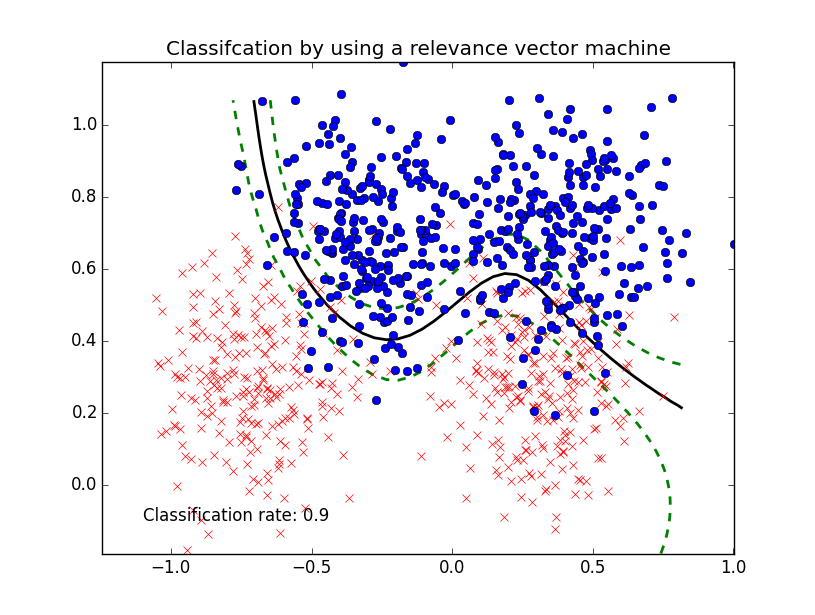
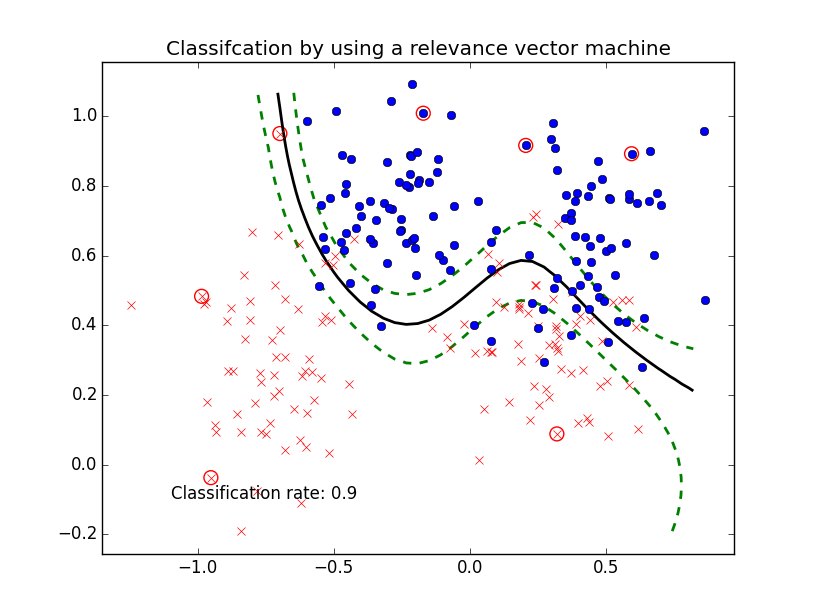
Adding Circles around Relevant Vectors

diff --git a/Classification/classification.py b/Classification/classification.py
@@ -31,10 +31,11 @@ def main():
     print("Classification rate on test data with: " +str(N)+" data points is: "+str(classification_rate))
 
     # Plot Points
-    pos_examples = np.array([ data[0:2] for data in data_test if int(data[2]) == 0])
-    neg_examples = np.array([ data[0:2] for data in data_test if int(data[2]) == 1])
+    pos_examples = np.array([ data[0:2] for data in data_train if int(data[2]) == 0])
+    neg_examples = np.array([ data[0:2] for data in data_train if int(data[2]) == 1])
     plt.plot (pos_examples[:,0], pos_examples[:,1], 'rx')
-    plt.plot (neg_examples[:,0], neg_examples[:,1], 'bo') 
+    plt.plot (neg_examples[:,0], neg_examples[:,1], 'bo')
+    plt.scatter (x[indices,0],x[indices,1],s=100, facecolors='none', edgecolors='r')
     plt.show (block = False)
 
     # Plot the decision boundary
@@ -58,7 +59,7 @@ def main():
     plt.contour(xx,yy,p_grid,levels=[0.25,0.5,0.75],linewidths=2,colors=['green', 'black', 'green'],linestyles=['dashed','solid','dashed'])
     plt.title("Classifcation by using a relevance vector machine")
     plt.text(-1.1,-0.1,"Classification rate: "+str(classification_rate))
-    plt.show (block = False)
+    plt.show(block = False)
     
 def buildPhi(r,x1,x2):
     N = len(x1)
@@ -219,3 +220,9 @@ def sigma(y):
     return(1/(1+math.exp(-y)))
 
 main()
+
+
+
+
+
+
